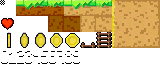
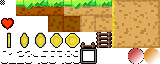
feat(gfxupdate): update the tiles01 image
- update tiles01;xcf
- merge tiles.png and tiles01.png into one image

Changed region(s): [[0.7812, 0.75, 1.0, 1.0], [0.5, 0.75, 0.625, 1.0]]

diff --git a/src/main/java/fr/snapgames/fromclasstogame/demo/scenes/DemoScene.java b/src/main/java/fr/snapgames/fromclasstogame/demo/scenes/DemoScene.java
@@ -42,8 +42,8 @@ public class DemoScene extends AbstractScene {
         ResourceManager.getFont("fonts/FreePixel.ttf");
         ResourceManager.getSlicedImage("images/tiles01.png", "heart", 0, 16, 16, 16);
         ResourceManager.getSlicedImage("images/tiles01.png", "*", 0, 0, 16, 16);
-        ResourceManager.getSlicedImage("images/tiles.png", "player", 0, 0, 16, 16);
-        ResourceManager.getSlicedImage("images/tiles.png", "orangeBall", 16, 0, 16, 16);
+        ResourceManager.getSlicedImage("images/tiles01.png", "player", 8*16, 48, 16, 16);
+        ResourceManager.getSlicedImage("images/tiles01.png", "orangeBall", 9*16, 48, 16, 16);
     }
 
     @Override
@@ -53,8 +53,8 @@ public class DemoScene extends AbstractScene {
         GameObject player = new GameObject("player", 160, 100)
                 .setType(GameObject.GOType.IMAGE)
                 .setColor(Color.RED)
-                .setImage(ResourceManager.getImage("images/tiles.png:player"))
-                .setMaterial(DefaultMaterial.WOOD.getMaterial());
+                .setImage(ResourceManager.getImage("images/tiles01.png:player"))
+                .setMaterial(DefaultMaterial.ROCK.getMaterial());
         add(player);
 
         Dimension vp = new Dimension(g.getRender().getBuffer().getWidth(), g.getRender().getBuffer().getHeight());
@@ -67,7 +67,7 @@ public class DemoScene extends AbstractScene {
             GameObject e = new GameObject("enemy_" + i, rand(0, 320), rand(0, 200))
                     .setType(GameObject.GOType.IMAGE)
                     .setColor(Color.ORANGE)
-                    .setImage(ResourceManager.getImage("images/tiles.png:orangeBall"))
+                    .setImage(ResourceManager.getImage("images/tiles01.png:orangeBall"))
                     .setMaterial(DefaultMaterial.RUBBER.getMaterial());
             add(e);
         }

diff --git a/src/main/java/fr/snapgames/fromclasstogame/core/physic/Material.java b/src/main/java/fr/snapgames/fromclasstogame/core/physic/Material.java
@@ -18,7 +18,7 @@ public class Material {
         ROCK(new Material("rock", 0.6, 1, 1, 1)),
         WOOD(new Material("wood", 0.1, 0.69, 0.69, 0.3)),
         METAL(new Material("metal", 0.05, 1, 1, 1.2)),
-        RUBBER(new Material("rubber", 0.8, 1, 1, 0.3)),
+        RUBBER(new Material("rubber", 0.8, 0.88, 0.98, 0.3)),
         GLASS(new Material("glass", 0.4, 1, 1, 1)),
         ICE(new Material("ice", 0.1, 0.1, 1, 1)),
         AIR(new Material("air", 1, 1, 1, 1)),
